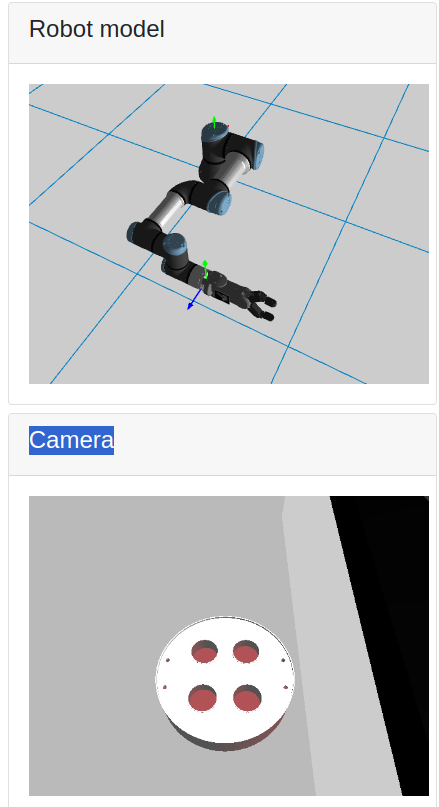
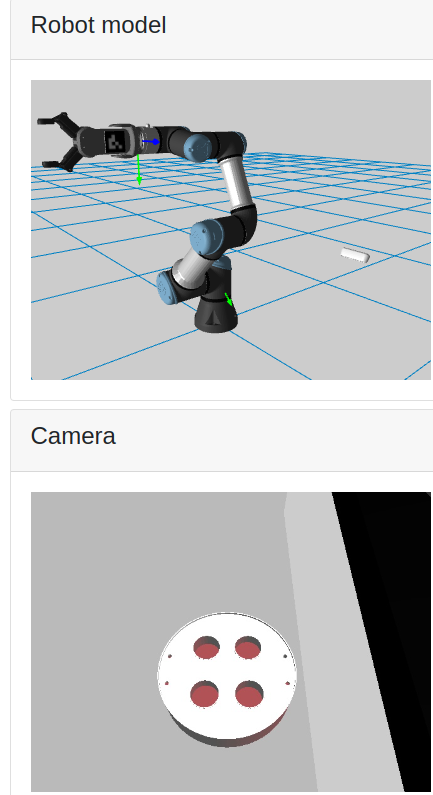
readme

diff --git a/README.md b/README.md
@@ -158,11 +158,12 @@ python3 -m http.server 7000
     - waiting for theConstruct to solve the image topic for me.
 
 - Devop
-    - Proved that Axes can be drawn on real robot
-    - proved that ros1_bridge works.
-    - started some dockers
-    - TODO NEXT: Task1 on ROS2 docker, and have the rosbridge docker bridges all topic to ROS1
-
+    - Done ROS2 -> r1_bridge -> r1_web_bridge -> web, with moveit able to control, and web able to show moving robot arm.
+    - TODO NEXT: 
+        -   Web control robot arms into two position: 1) Home, 2) show_aruco (move_sim_arm_to_show_aruco_trajectory.launch.py)
+        -   docker run the aruco_detector (ros2 run my_tf_aruco aruco_to_camlink_tf_pub.py)
+        -   Show the aruco marker w.r.t. Camera in X,Y,Z, Yaw, Pitch, Row
+        
 Terminal 1
 
 ```
